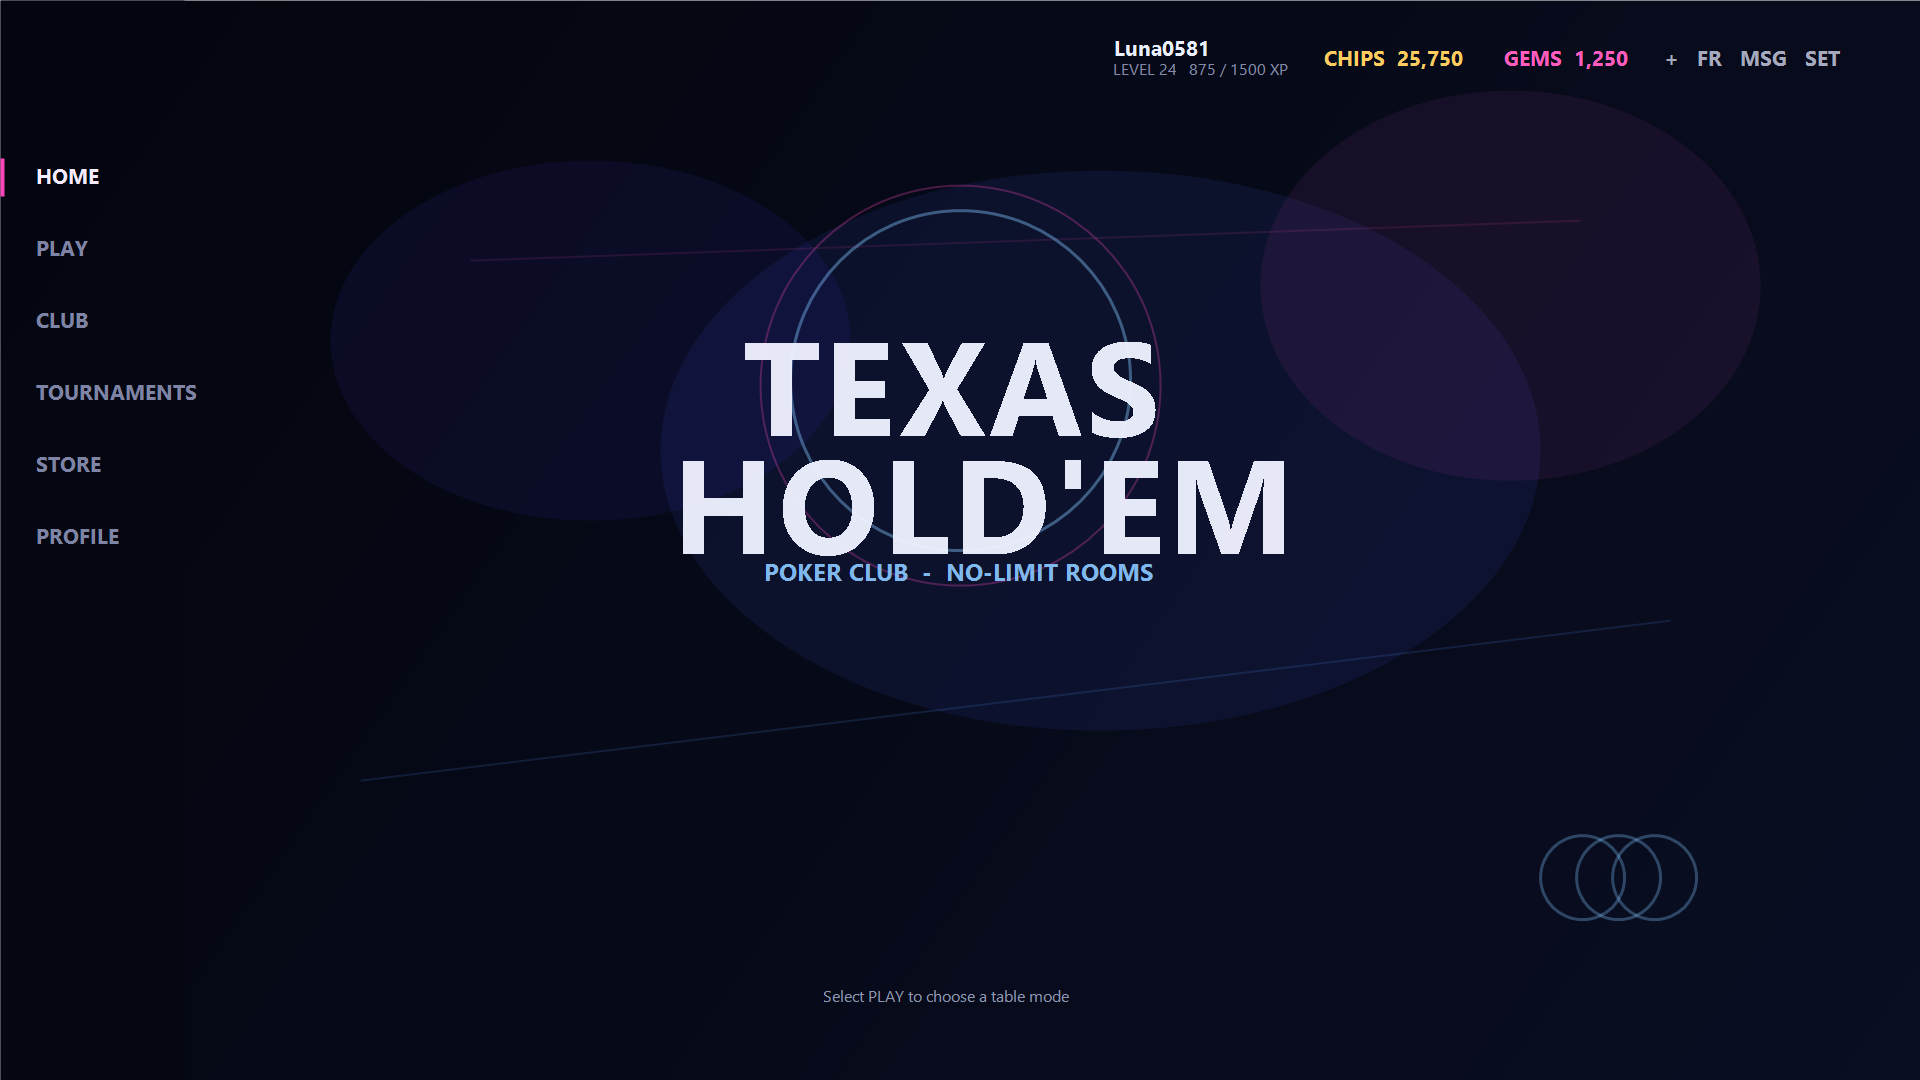
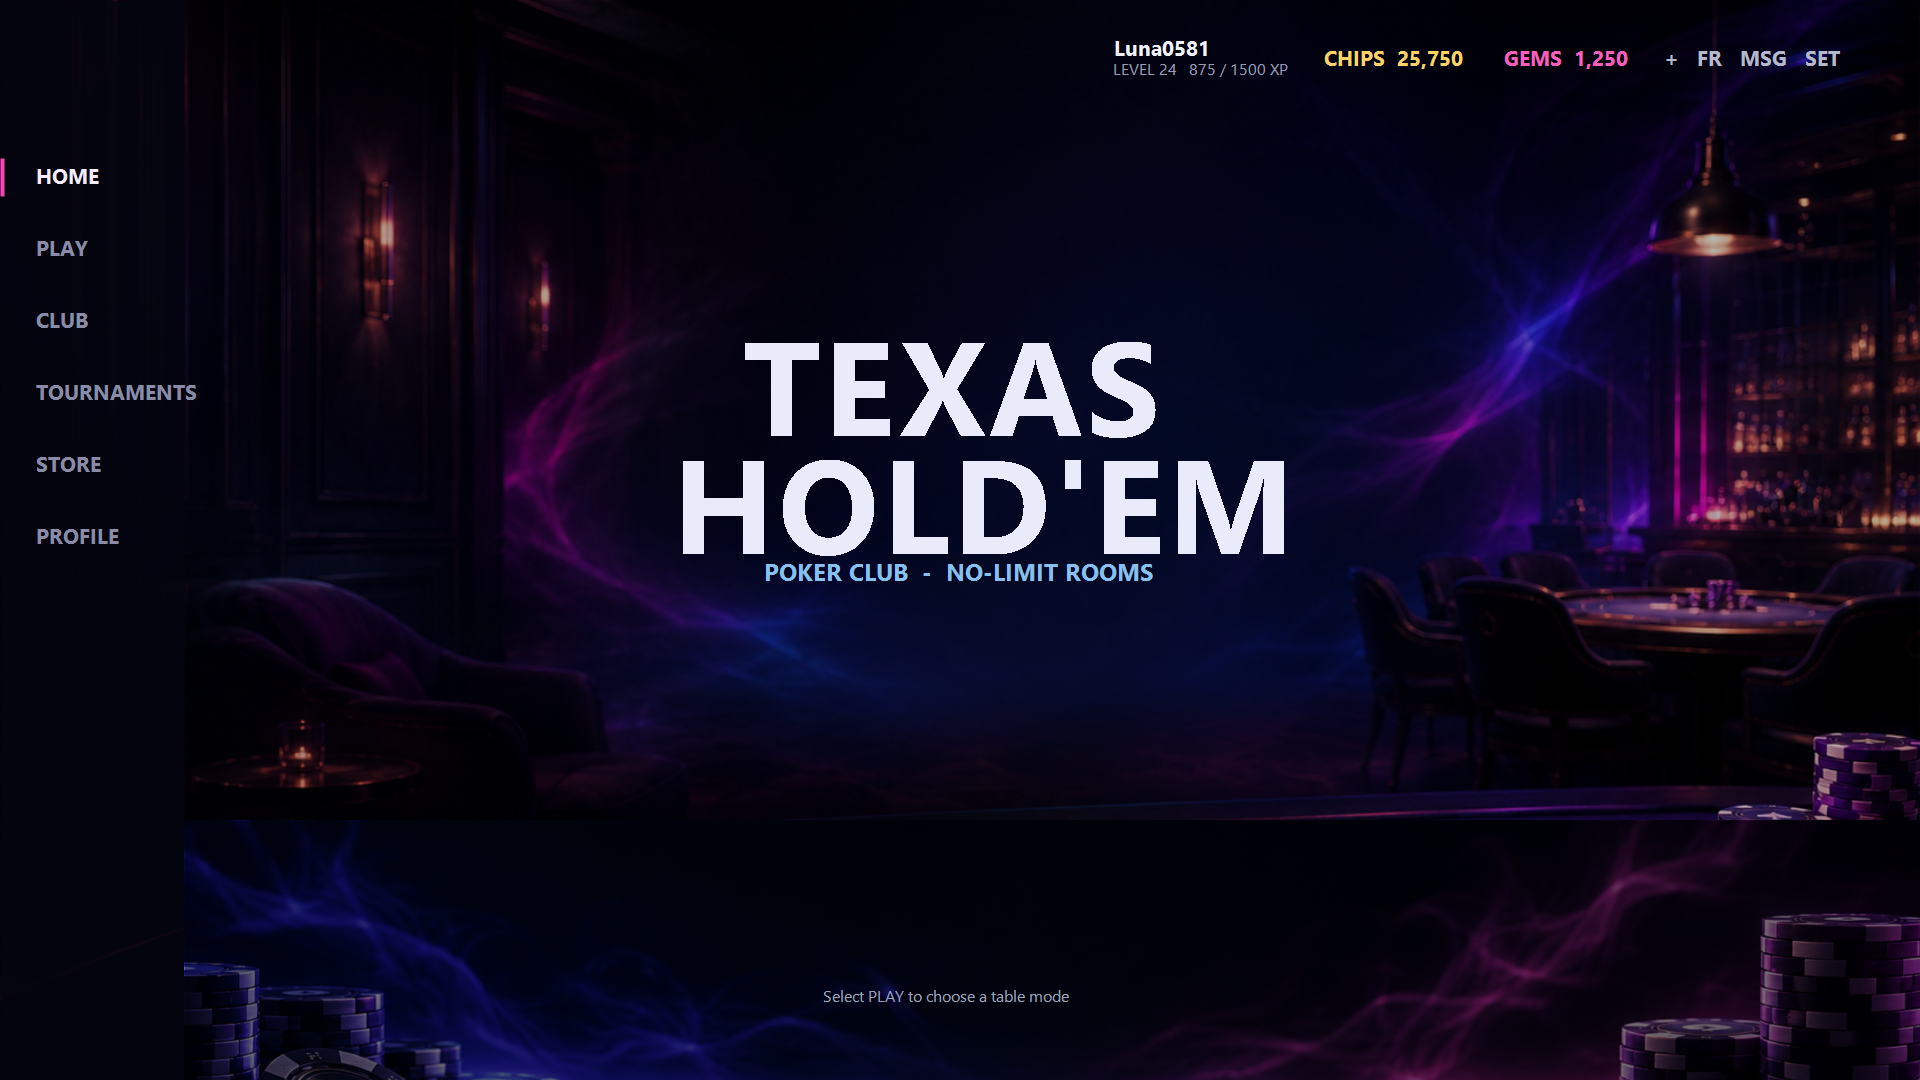
task 1a integrate home lobby rectangular assets

diff --git a/docs/home_lobby_asset_integration.md b/docs/home_lobby_asset_integration.md
@@ -1,0 +1,71 @@
+# Home Lobby Asset Integration
+
+Task 1A integrates user-provided rectangular assets into the existing Home Lobby vertical slice. Scope remains lobby-only: no poker table, networking, Steam API, store, payments, accounts, or gameplay logic.
+
+## Integrated Assets
+
+### Background
+
+- `res://assets/home_lobby/backgrounds/home_background.png`
+  - Full-screen Home Lobby background.
+  - Rendered through a Godot `TextureRect`.
+  - A subtle dark overlay and low-alpha shader flow sit above it.
+
+### Mode Card Illustrations
+
+- `res://assets/home_lobby/mode_cards/mode_quick_play.png`
+  - Quick Play illustration.
+- `res://assets/home_lobby/mode_cards/mode_cash_tables.png`
+  - Cash Tables illustration.
+- `res://assets/home_lobby/mode_cards/mode_tournaments.png`
+  - Tournaments illustration.
+- `res://assets/home_lobby/mode_cards/mode_private_table.png`
+  - Private Table illustration.
+- `res://assets/home_lobby/mode_cards/mode_club_games.png`
+  - Club Games illustration.
+
+Each image is displayed inside `ModeCard` using `TextureRect`. Titles and subtitles remain Godot `Label` nodes driven by `res://scripts/data/mock_home_data.gd`.
+
+### Foreground Decor
+
+- `res://assets/home_lobby/foreground/foreground_decor_strip.png`
+  - Bottom foreground decoration layer.
+  - Rendered above the background and below main UI.
+  - Uses low opacity and subtle drift so it does not block cards or Daily Bonus.
+
+## Godot-Rendered UI
+
+The following remain Godot components, not baked images:
+
+- Left navigation rail and nav hover/active states.
+- Top player/currency bar.
+- Central `TEXAS HOLD'EM` logo text.
+- Mode card glass panels, titles, subtitles, hover and press states.
+- Daily Bonus bar.
+- Shader flow and motion tweens.
+
+## Motion Implemented
+
+- Background low-alpha shader flow.
+- Logo breathing pulse.
+- Left nav hover highlight and active indicator.
+- PLAY area fade/slide reveal.
+- Five mode cards stagger in.
+- Mode card hover lift, scale, border glow, and shadow.
+- Mode card press compression and rebound.
+- Daily Bonus slide-in and hover cell highlight.
+- Foreground decor strip slow drift.
+
+## Still Placeholder
+
+- Logo is still Godot text and procedural spade/glow, pending final brand asset.
+- Top bar avatar and icons are still simple placeholders.
+- Daily Bonus rewards are mock data.
+- Mode card art is user-provided current placeholder art and can be replaced at the same paths.
+
+## Screenshot Status
+
+- `docs/screenshots/collapsed_home.png`
+- `docs/screenshots/play_expanded.png`
+
+These are static visual references generated outside the Godot runtime because this environment does not expose a Godot executable on PATH. They are not real Godot runtime screenshots.

diff --git a/assets/home_lobby/README_ASSETS.md b/assets/home_lobby/README_ASSETS.md
@@ -1,0 +1,48 @@
+# Home Lobby Assets
+
+All files in this folder are user-provided rectangular assets for the Home/Lobby vertical slice. They are treated as replaceable art assets, not baked UI.
+
+## Background
+
+- `backgrounds/home_background.png`
+  - Source: user-provided asset.
+  - Use: full-screen Home Lobby atmospheric background.
+  - Status: current production placeholder, replaceable later.
+
+## Mode Cards
+
+- `mode_cards/mode_quick_play.png`
+  - Source: user-provided asset.
+  - Use: Quick Play card illustration.
+  - Status: current production placeholder, replaceable later.
+
+- `mode_cards/mode_cash_tables.png`
+  - Source: user-provided asset.
+  - Use: Cash Tables card illustration.
+  - Status: current production placeholder, replaceable later.
+
+- `mode_cards/mode_tournaments.png`
+  - Source: user-provided asset.
+  - Use: Tournaments card illustration.
+  - Status: current production placeholder, replaceable later.
+
+- `mode_cards/mode_private_table.png`
+  - Source: user-provided asset.
+  - Use: Private Table card illustration.
+  - Status: current production placeholder, replaceable later.
+
+- `mode_cards/mode_club_games.png`
+  - Source: user-provided asset.
+  - Use: Club Games card illustration.
+  - Status: current production placeholder, replaceable later.
+
+## Foreground
+
+- `foreground/foreground_decor_strip.png`
+  - Source: user-provided asset.
+  - Use: low-opacity bottom foreground decor layer.
+  - Status: current production placeholder, replaceable later.
+
+## How To Replace
+
+Replace a PNG with a new file at the same path and reopen Godot, or update the `"image"` path in `res://scripts/data/mock_home_data.gd` for mode-card images. The background and foreground paths are referenced in `res://scripts/screens/home_lobby_screen.gd`.

diff --git a/README.md b/README.md
@@ -34,6 +34,18 @@ The project is configured for a 1920x1080 desktop-first 16:9 lobby.
 - Daily Bonus slide-in.
 - Subtle foreground chip/card drift.
 
+## Task 1A Asset Integration
+
+This project now uses user-provided rectangular lobby assets:
+
+- Full-screen background: `res://assets/home_lobby/backgrounds/home_background.png`
+- Mode card illustrations: `res://assets/home_lobby/mode_cards/*.png`
+- Bottom decor strip: `res://assets/home_lobby/foreground/foreground_decor_strip.png`
+
+The left nav, top bar, logo text, card titles/subtitles, Daily Bonus, and interactions are still rendered by Godot UI components.
+
+See `docs/home_lobby_asset_integration.md` and `assets/home_lobby/README_ASSETS.md`.
+
 ## Screenshots
 
 - `docs/screenshots/collapsed_home.png`
